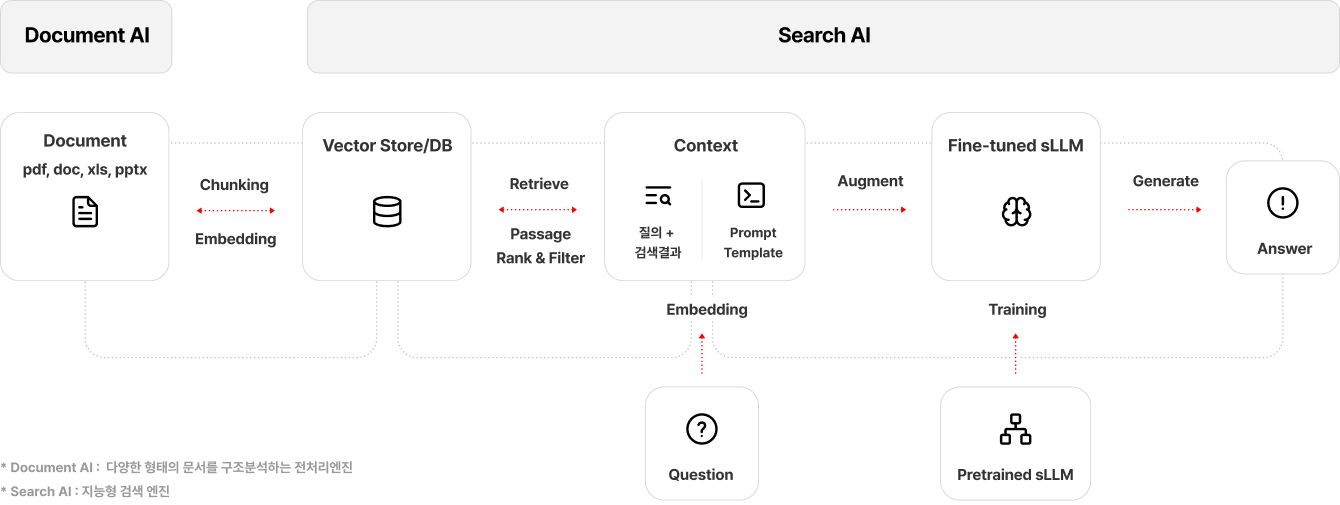
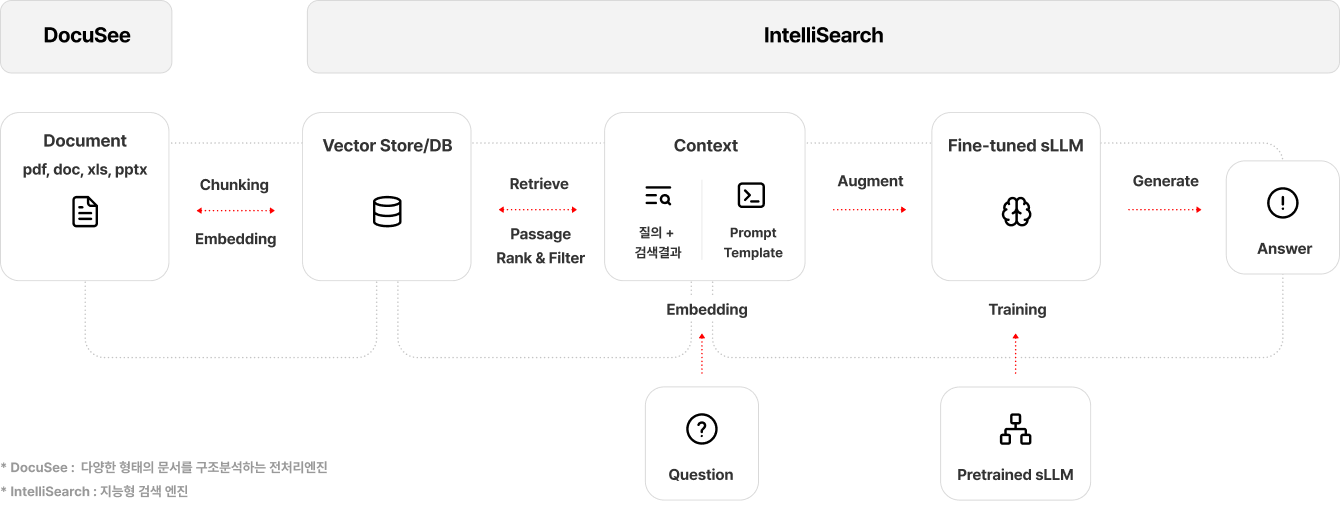
이미지 변경 및 텍스트 수정

Changed region(s): [[0.0, 0.8911, 0.2754, 1.0], [0.5507, 0.0297, 0.6731, 0.0891], [0.0, 0.0594, 0.1224, 0.0891]]

diff --git a/ai/solution/model/index.html b/ai/solution/model/index.html
@@ -49,10 +49,10 @@
         <div class="banner-inner">
             <h2 data-aos="fade-up" data-aos-duration="800" data-aos-easing="ease-out-cubic">
                 <img src="/resource/images/ai/solution/ico-kon.svg" alt="logo" width="53" height="52" />
-                Model
+                Models
             </h2>
             <p data-aos="fade-up" data-aos-duration="800" data-aos-easing="ease-out-cubic">
-                신뢰성과 안전성을 모두 갖춘, 가장 한국적인 AI 모델 K Model은 검증된 데이터와 안정된 인프라와<br>
+                신뢰성과 안전성을 모두 갖춘, 가장 한국적인 AI 모델 K Models은 검증된 데이터와 안정된 인프라와<br>
                 높은 성능을 바탕으로 기업이 안심하고 사용할 수 있는 AI 경험을 제공합니다.
             </p>
         </div>
@@ -66,7 +66,7 @@
                 <div class="title-wrapper">
                     <span data-aos="fade-up" data-aos-duration="800" data-aos-easing="ease-out-cubic">Advantages</span>
                     <h2 data-aos="fade-up" data-aos-duration="800" data-aos-easing="ease-out-cubic">
-                        K Model 장점
+                        K Models 장점
                     </h2>
                     <p data-aos="fade-up" data-aos-duration="800" data-aos-easing="ease-out-cubic">
                         저작권 걱정 없는 고품질 데이터로 학습하고, 국내에서 안전하게 운영되어 정확하고 <br class="mo-br"> 수 있습니다.
@@ -179,7 +179,7 @@
                                     실용적으로 설계했습니다.
                                 </p>
                                 <div class="card-tags">
-                                    <span class="card-tag">Llama K</span>
+                                    <span class="card-tag">Llama K (예정)</span>
                                 </div>
                             </div>
                         </li>
@@ -447,7 +447,7 @@
                                 <div class="btn-wrap" data-aos="fade-up" data-aos-duration="800"
                                     data-aos-easing="ease-out-cubic">
                                     <button type="button" class="basic-bk-btn last-btn">
-                                        모델 자세히 보기
+                                        자세히 보기
                                     </button>
                                 </div>
                             </div>
@@ -778,7 +778,7 @@
                                 <div class="btn-wrap" data-aos="fade-up" data-aos-duration="800"
                                     data-aos-easing="ease-out-cubic">
                                     <button type="button" class="basic-bk-btn last-btn">
-                                        모델 자세히 보기
+                                        자세히 보기
                                     </button>
                                 </div>
                             </div>
@@ -1103,7 +1103,7 @@
                                 <div class="btn-wrap" data-aos="fade-up" data-aos-duration="800"
                                     data-aos-easing="ease-out-cubic">
                                     <button type="button" class="basic-bk-btn last-btn">
-                                        모델 자세히 보기
+                                        자세히 보기
                                     </button>
                                 </div>
                             </div>

diff --git a/ai/solution/RAG/index.html b/ai/solution/RAG/index.html
@@ -182,7 +182,7 @@
                         />
                         <div class="shape-header">
                             <div class="shape-title">DocuSee</div>
-                            <div class="shape-title full">Search AI</div>
+                            <div class="shape-title full">IntelliSearch</div>
                         </div>
                         <div class="shape-flow">
                             <!-- 1행: 상단 흐름도 -->
@@ -312,8 +312,8 @@
                             </div>
 
                             <p class="solution-description">
-                                * Document AI : 다양한 형태의 문서를 구조분석하는 전처리엔진<br />
-                                * Search AI : 지능형 검색 엔진
+                                * DocuSee : 다양한 형태의 문서를 구조분석하는 전처리엔진<br />
+                                * IntelliSearch : 지능형 검색 엔진
                             </p>
                         </div>
                     </div>
@@ -334,7 +334,7 @@
                             data-aos-duration="800"
                             data-aos-easing="ease-out-cubic"
                         >
-                            Search AI
+                            IntelliSearch
                         </h2>
                         <p
                             data-aos="fade-up"
@@ -356,7 +356,7 @@
                             data-aos-duration="800"
                             data-aos-easing="ease-out-cubic"
                         >
-                            <h3>Search AI 특징</h3>
+                            <h3>IntelliSearch 특징</h3>
                         </div>
                         <ul class="box-list black-style">
                             <li
@@ -611,7 +611,7 @@
                             data-aos-duration="800"
                             data-aos-easing="ease-out-cubic"
                         >
-                            Document AI
+                            DocuSee
                         </h2>
                         <p
                             data-aos="fade-up"
@@ -633,7 +633,7 @@
                             data-aos-duration="800"
                             data-aos-easing="ease-out-cubic"
                         >
-                            <h3>Document AI 특징</h3>
+                            <h3>DocuSee 특징</h3>
                         </div>
                         <ul class="box-list fit-content">
                             <li

diff --git a/ai/solution/agent/index.html b/ai/solution/agent/index.html
@@ -44,7 +44,7 @@
         <div class="banner-inner">
             <h2 class="agent-banner-title" data-aos="fade-up" data-aos-duration="800" data-aos-easing="ease-out-cubic">
                 <img src="/resource/images/ai/solution/ico-kon.svg" alt="logo" width="53" height="52" />
-                Agent
+                Agents
             </h2>
             <p data-aos="fade-up" data-aos-duration="800" data-aos-easing="ease-out-cubic">
                 주어진 목표를 달성하기 위해 환경을 인식하고, <br class="mo-br" />
@@ -152,7 +152,7 @@
         <section class="content-section">
             <div class="content-inner overgrid-inner">
                 <div class="title-wrapper">
-                    <span data-aos="fade-up" data-aos-duration="800" data-aos-easing="ease-out-cubic">K Agent</span>
+                    <span data-aos="fade-up" data-aos-duration="800" data-aos-easing="ease-out-cubic">K Agents</span>
                     <h2 data-aos="fade-up" data-aos-duration="800" data-aos-easing="ease-out-cubic">
                         Use Cases
                     </h2>
@@ -345,7 +345,7 @@
                 <div class="title-wrapper">
                     <span data-aos="fade-up" data-aos-duration="800" data-aos-easing="ease-out-cubic">Agent Tech</span>
                     <h2 data-aos="fade-up" data-aos-duration="800" data-aos-easing="ease-out-cubic">
-                        K Agent 핵심 기술
+                        K Agents 핵심 기술
                     </h2>
                     <p data-aos="fade-up" data-aos-duration="800" data-aos-easing="ease-out-cubic">
                         Agent Pattern과 Multi-Model Orchestrator를 기반으로, <br />
@@ -549,7 +549,7 @@
                             <div class="tab-section">
                                 <div class="sub-title-wrapper">
                                     <h2 data-aos="fade-up" data-aos-duration="800" data-aos-easing="ease-out-cubic">
-                                        KT Agent Pattern <br class="mo-br" />Top-10
+                                        KT Agent Patterns <br class="mo-br" />Top-10
                                     </h2>
                                     <p data-aos="fade-up" data-aos-duration="800" data-aos-easing="ease-out-cubic">
                                         AI Agent 개발 시 반복적으로 활용되는

diff --git a/css/ai/solution.css b/css/ai/solution.css
@@ -1378,6 +1378,12 @@ br.mo-br {
     align-items: center;
     justify-content: center;
     margin-top: 8rem;
+    text-align: center;
+}
+
+.btnWrap a {
+    display: inline-block;
+    width: fit-content;
 }
 
 /* 가로 카드 모바일 버전 */
@@ -1419,6 +1425,10 @@ br.mo-br {
 
 .architecture-diagram .table-list .table-row:not(:first-child) {
     margin-top: 2rem;
+}
+
+.architecture-diagram .table-list .mobile-img {
+    display: none;
 }
 
 .architecture-diagram .table-list .table-col {
@@ -2221,6 +2231,11 @@ br.mo-br {
         background: var(--gray-800-color);
     }
 
+    .list-wrapper.sm .list-item h3 {
+        font-size: 2.2rem;
+        line-height: 1.56;
+    }
+
     .shape-wrapper {
         flex-direction: column;
     }
@@ -2344,11 +2359,15 @@ br.mo-br {
 
     .report-wrapper .report-btn-wrap.mobile-btn-wrap {
         display: flex;
+        gap: 0.8rem;
+        margin: 0 1.45rem;
     }
 
     .report-wrapper .report-btn-wrap .btn {
+        min-width: auto;
         padding: 1.6rem 2.8rem;
         font-size: 1.7rem;
-        line-height: 1.42;
+        line-height: 1.72;
+        letter-spacing: normal;
     }
 }
